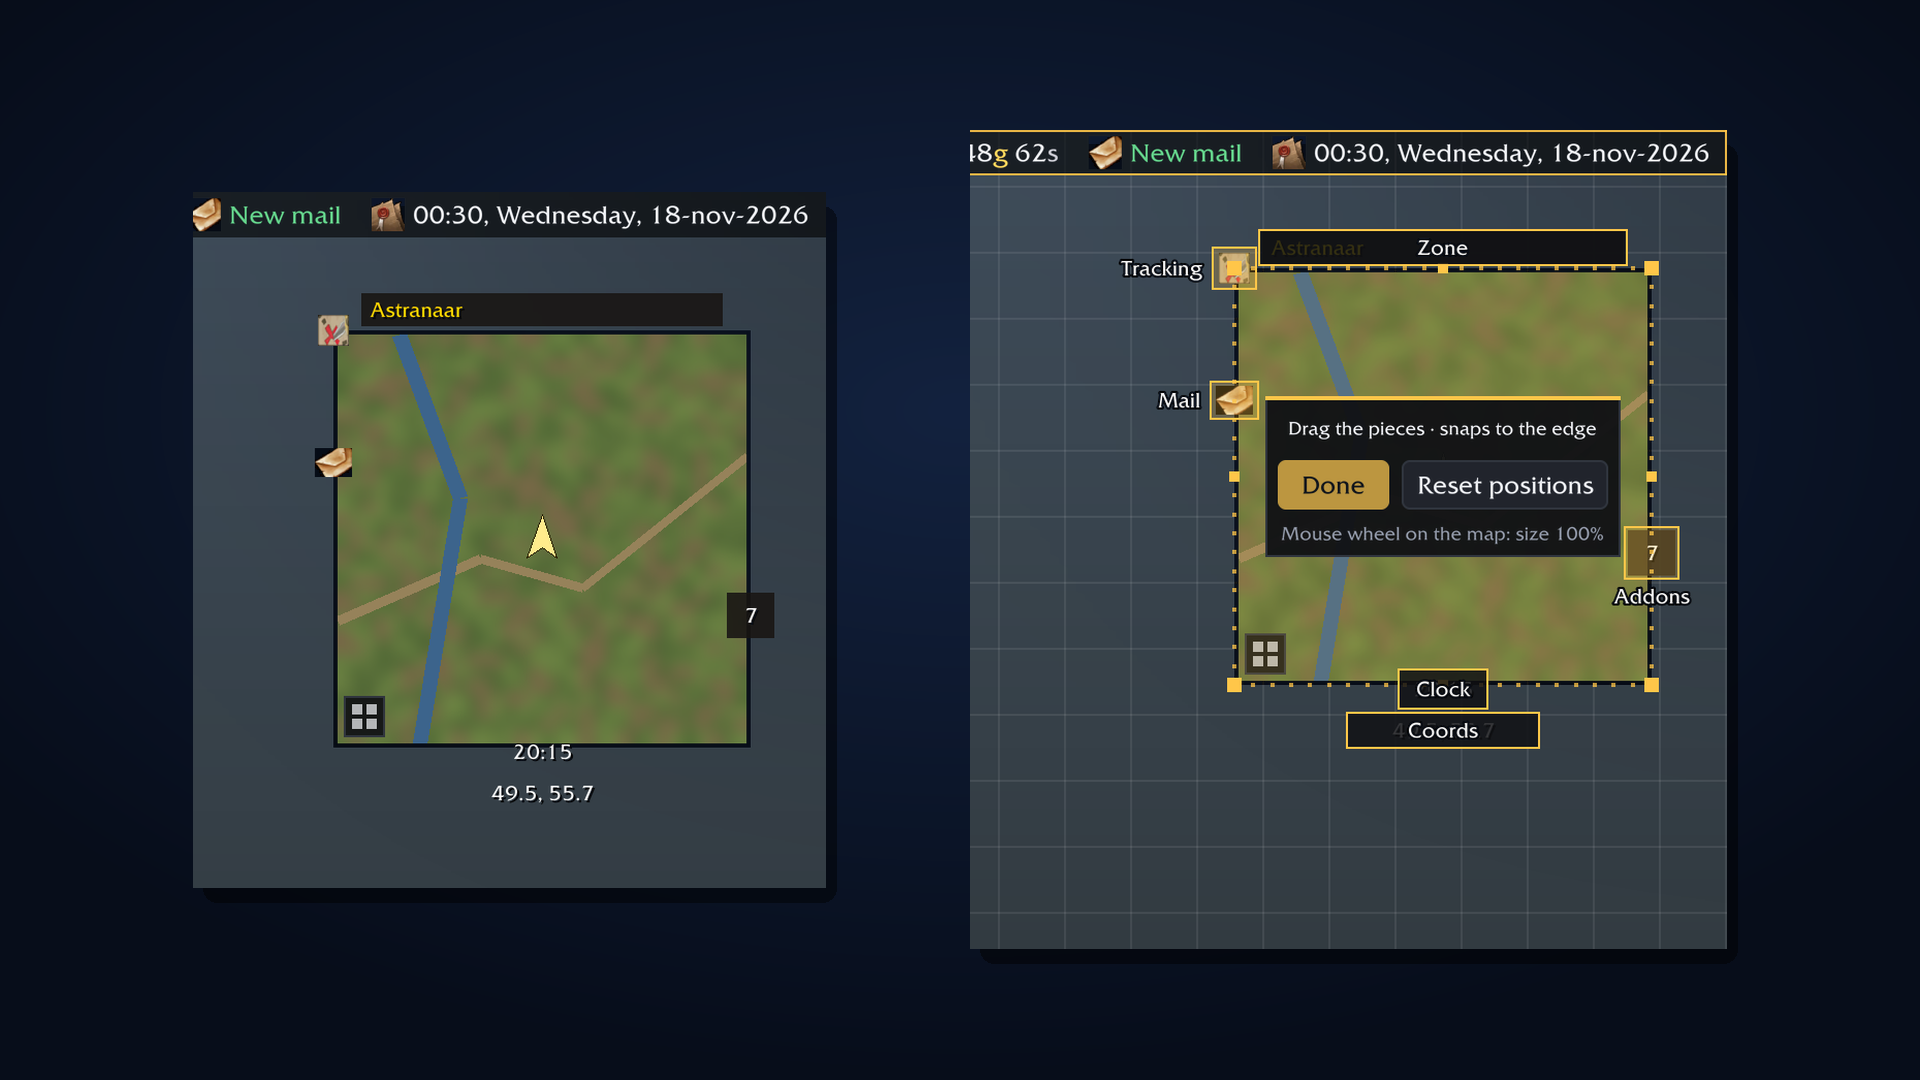
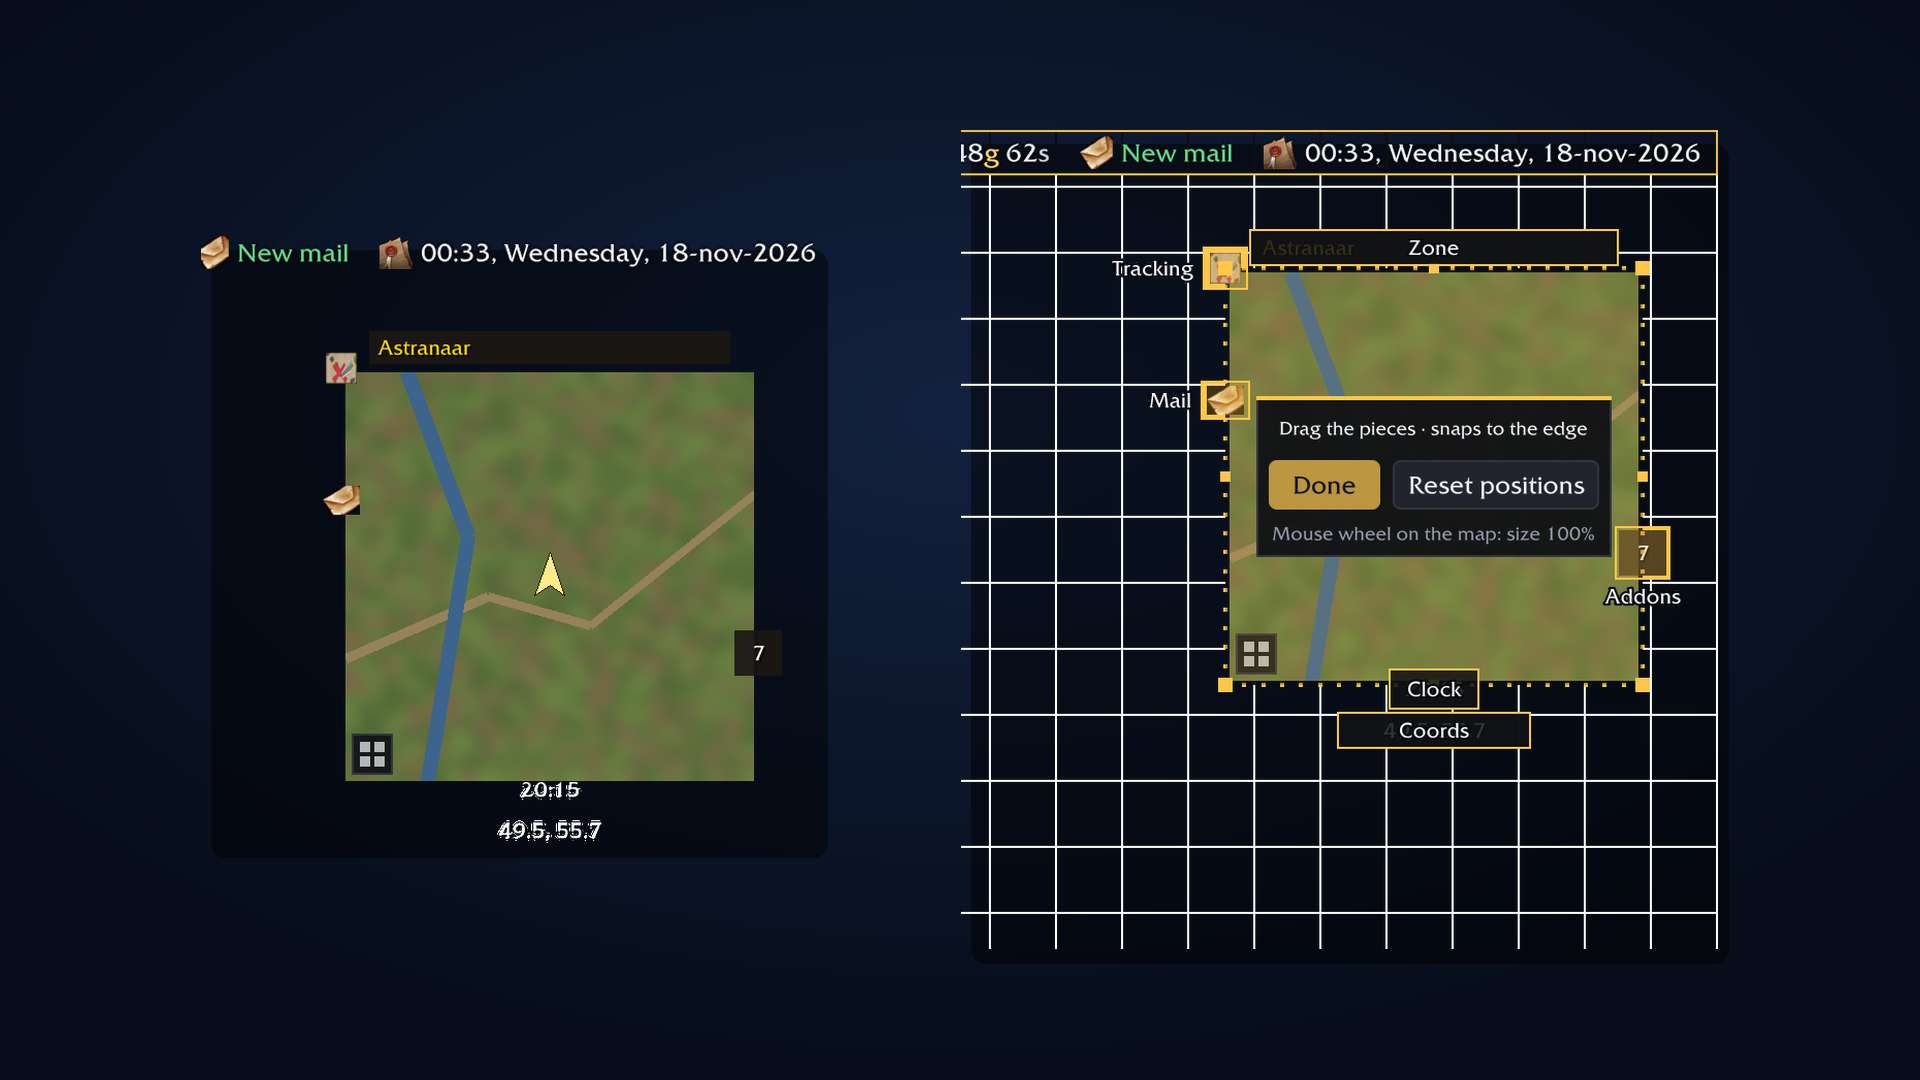
Screenshots: small pieces on the gallery backdrop instead of the grey screen

diff --git a/screenshots/compose.py b/screenshots/compose.py
@@ -1,4 +1,4 @@
-# Builds the CurseForge/site screenshots (1920x1080) from UISandbox renders in raw/ (render.py EverlookBar <scenario> --zoom 2).
+# Builds the CurseForge/site screenshots (1920x1080) from UISandbox renders in raw/ (render.py EverlookBar <scenario> --zoom 2). Small pieces (not windows) with --bg transparent.
 from PIL import Image, ImageDraw
 import math
 W, H = 1920, 1080
